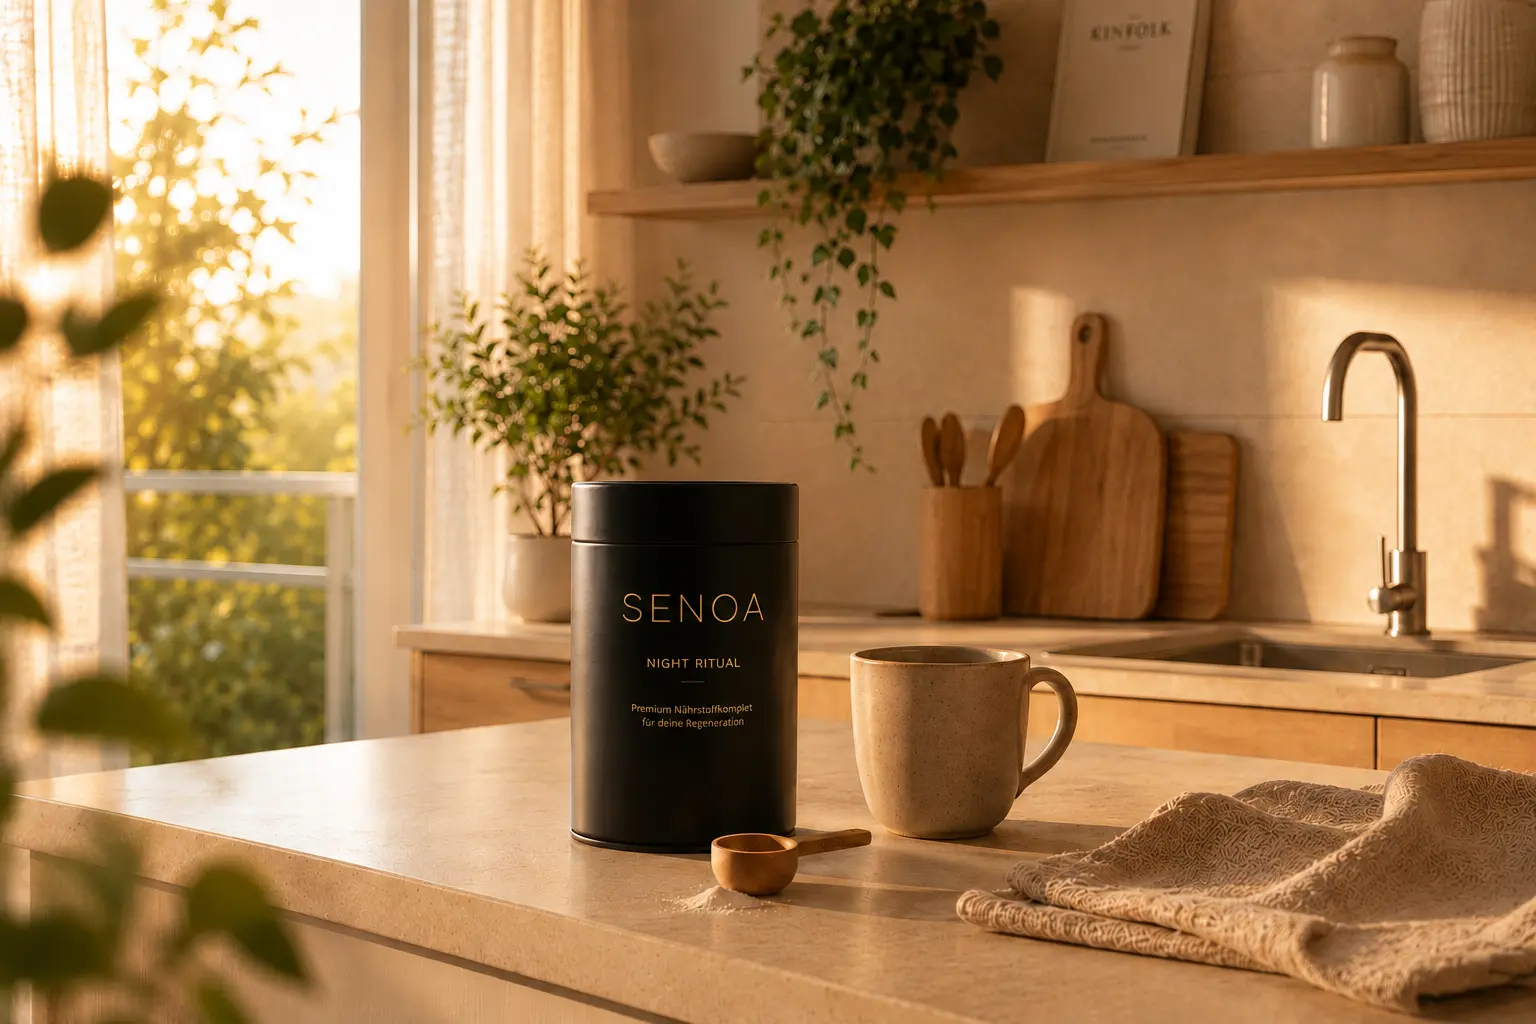
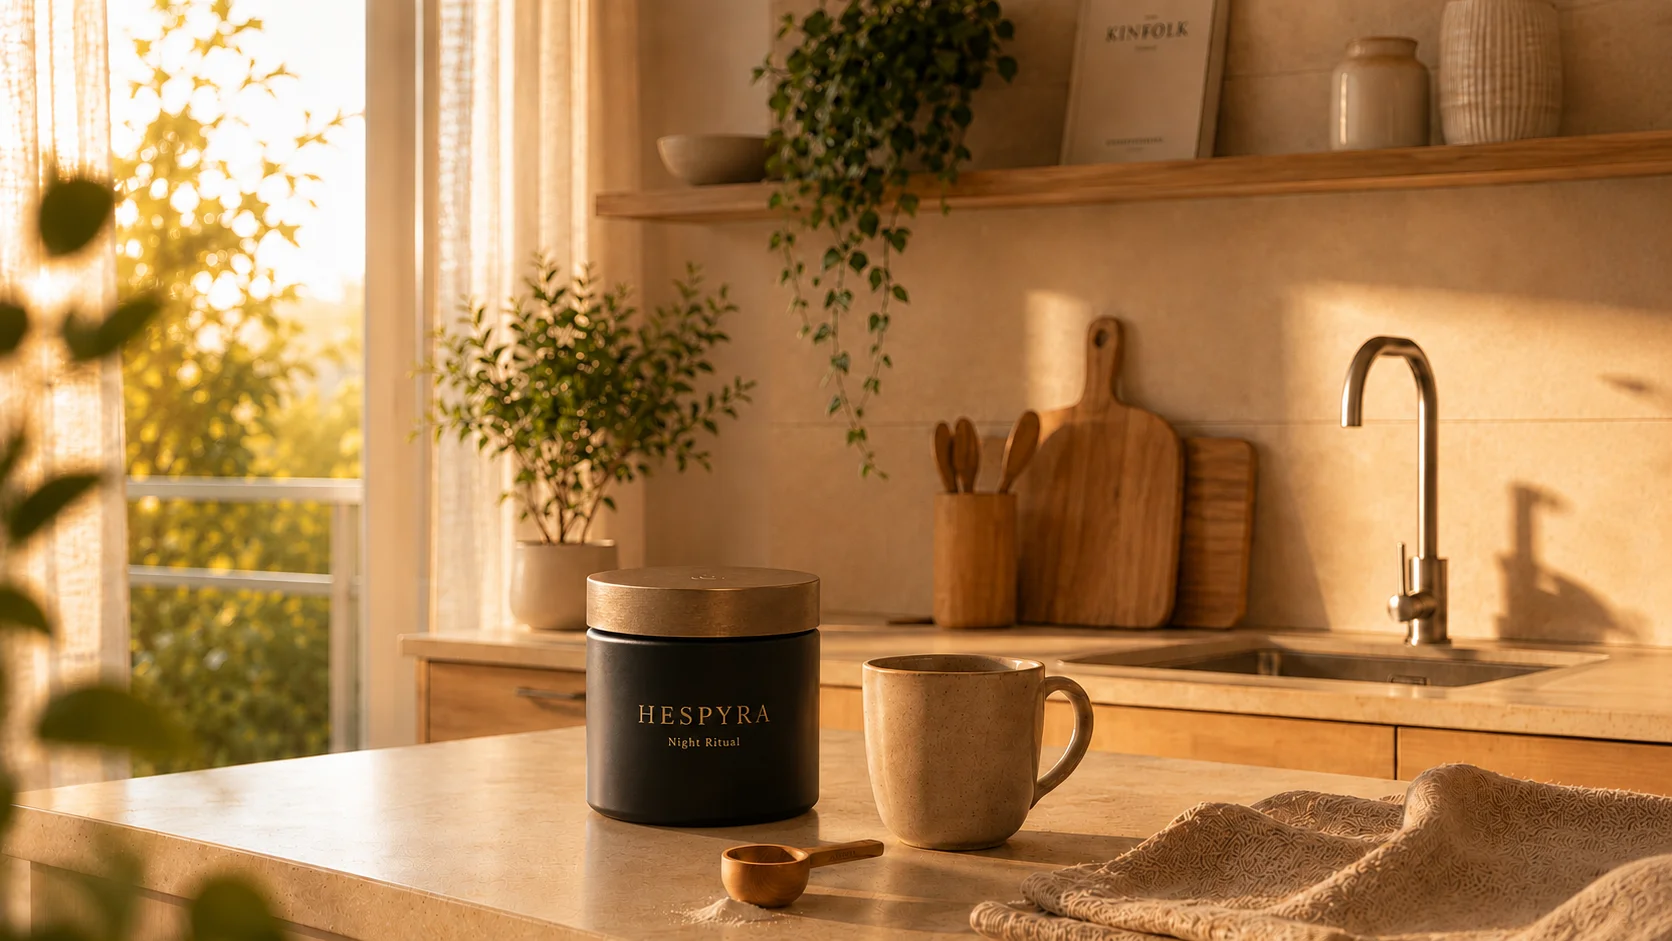
style: final responsive design alignments, waitlist & about copy, footer tooltips, and image updates

diff --git a/src/components/Footer.tsx b/src/components/Footer.tsx
@@ -1,3 +1,4 @@
+import { useState } from 'react';
 import { Camera, Link as LinkIcon } from 'lucide-react';
 import { useLanguage } from '../context/LanguageContext';
 
@@ -9,7 +10,16 @@ interface FooterProps {
 }
 
 const Footer = ({ onShowImprint, onShowContact, onShowAbout, onShowPrivacy }: FooterProps) => {
-  const { t } = useLanguage();
+  const { t, language } = useLanguage();
+  const [activeTooltip, setActiveTooltip] = useState<'instagram' | 'share' | null>(null);
+
+  const triggerTooltip = (type: 'instagram' | 'share') => {
+    setActiveTooltip(type);
+    const timer = setTimeout(() => {
+      setActiveTooltip(null);
+    }, 2000);
+    return () => clearTimeout(timer);
+  };
 
   return (
     <footer className="w-full bg-white border-t border-primary/10 py-8 lg:py-6 relative z-20">
@@ -68,22 +78,49 @@ const Footer = ({ onShowImprint, onShowContact, onShowAbout, onShowPrivacy }: Fo
             </button>
           </div>
 
-          {/* Right Column: Social / Share Icons */}
-          <div className="flex flex-row justify-center lg:justify-end items-center gap-6">
-            <a 
-              href="#" 
-              aria-label="Instagram"
-              className="text-primary/60 hover:text-primary transition-colors duration-200"
-            >
-              <Camera className="w-10 h-10" strokeWidth={1} />
-            </a>
-            <a 
-              href="#" 
-              aria-label="Share"
-              className="text-primary/60 hover:text-primary transition-colors duration-200"
-            >
-              <LinkIcon className="w-10 h-10" strokeWidth={1} />
-            </a>
+          {/* Right Column: Social / Share Icons with Interactive Tooltips */}
+          <div className="flex flex-row justify-center lg:justify-end items-center gap-6 relative">
+            
+            {/* Instagram Link Container */}
+            <div className="relative">
+              {activeTooltip === 'instagram' && (
+                <div className="absolute -top-12 left-1/2 transform -translate-x-1/2 bg-primary text-white text-[11px] font-sans tracking-wider py-1.5 px-3 rounded-sm whitespace-nowrap shadow-md animate-fade-in z-50">
+                  {language === 'de' ? 'Bald hier' : 'Coming soon'}
+                  <div className="absolute -bottom-1 left-1/2 transform -translate-x-1/2 w-2 h-2 bg-primary rotate-45"></div>
+                </div>
+              )}
+              <button 
+                onClick={(e) => {
+                  e.preventDefault();
+                  triggerTooltip('instagram');
+                }}
+                aria-label="Instagram"
+                className="text-primary/60 hover:text-primary transition-colors duration-200 focus:outline-none cursor-pointer flex items-center justify-center"
+              >
+                <Camera className="w-10 h-10" strokeWidth={1} />
+              </button>
+            </div>
+
+            {/* Share Link Container */}
+            <div className="relative">
+              {activeTooltip === 'share' && (
+                <div className="absolute -top-12 left-1/2 transform -translate-x-1/2 bg-primary text-white text-[11px] font-sans tracking-wider py-1.5 px-3 rounded-sm whitespace-nowrap shadow-md animate-fade-in z-50">
+                  {language === 'de' ? 'Bald hier' : 'Coming soon'}
+                  <div className="absolute -bottom-1 left-1/2 transform -translate-x-1/2 w-2 h-2 bg-primary rotate-45"></div>
+                </div>
+              )}
+              <button 
+                onClick={(e) => {
+                  e.preventDefault();
+                  triggerTooltip('share');
+                }}
+                aria-label="Share"
+                className="text-primary/60 hover:text-primary transition-colors duration-200 focus:outline-none cursor-pointer flex items-center justify-center"
+              >
+                <LinkIcon className="w-10 h-10" strokeWidth={1} />
+              </button>
+            </div>
+
           </div>
         </div>
       </div>

diff --git a/src/components/AboutModal.tsx b/src/components/AboutModal.tsx
@@ -49,40 +49,82 @@ const AboutModal = ({ isOpen, onClose }: AboutModalProps) => {
 
         {language === 'de' ? (
           /* German content */
-          <div className="space-y-8 text-[15px] text-primary/80 leading-relaxed font-light">
-            <p className="text-[17px] lg:text-[19px] text-primary/95 leading-relaxed font-normal">
-              HESPYRA entsteht aus einem einfachen Gedanken: Gute Produkte sollten nicht nur funktionieren — sie sollten einen echten Unterschied im Alltag machen.
+          <div className="space-y-6 text-[16px] lg:text-[17px] text-primary/80 leading-relaxed font-light">
+            <p>
+              HESPYRA entstand aus der Beobachtung, dass der Tag oft äußerlich endet, bevor er innerlich wirklich vorbei ist.
             </p>
 
             <p>
-              Wir sind ein kleines Team, das an Themen arbeiten möchte, die uns selbst bewegen: Ruhe, bewusste Routinen, hochwertige Produkte und die Frage, wie moderne Menschen nach einem vollen Tag wieder bei sich ankommen können.
+              Der letzte Termin ist vorüber. Der Laptop ist geschlossen. Die Wohnung wird stiller. Und doch läuft etwas weiter: Gedanken, Entscheidungen, Gespräche, ein Rest von Tempo.
             </p>
 
             <p>
-              Dabei geht es uns nicht darum, möglichst laut zu sein oder möglichst viel zu versprechen. Wir möchten Dinge entwickeln, die sich sinnvoll anfühlen. Mit Menschen, die wir mögen. Für Menschen, die sich nach mehr Ruhe, Klarheit und echten Momenten sehnen.
+              Wir wollten diesem Moment mehr Aufmerksamkeit schenken.
             </p>
 
-            <p className="pt-6 border-t border-primary/5 font-medium text-primary">
-              HESPYRA ist unser Anfang: ein Abendritual für den Übergang aus dem Leistungsmodus in echte Ruhe.
+            <p>
+              Nicht, weil der Abend optimiert werden muss.<br />
+              Sondern weil er einen bewussten Anfang verdient.
+            </p>
+
+            <p>
+              HESPYRA ist eine moderne Evening Ritual Brand aus Deutschland. Wir entwickeln Produkte für den Übergang vom Tag in echte Ruhe — ruhig, sinnlich und ohne laute Versprechen.
+            </p>
+
+            <p>
+              Unser erstes Ritual ist eine trinkbare Komposition für den Abend: ausgewählte Mineralien, Pflanzenextrakte und warme Geschmacksnoten, verbunden mit einer einfachen Handlung. Ein Scoop. Ein Glas. Ein Moment, in dem der Tag leiser werden darf.
+            </p>
+
+            <div className="pl-4 border-l border-primary/20 py-1 space-y-2">
+              <p>Wir glauben an Produkte, die nicht drängen.</p>
+              <p>An Rituale statt Routinen.</p>
+              <p>An Ruhe statt Optimierung.</p>
+              <p>An Qualität, die nicht laut werden muss.</p>
+            </div>
+
+            <p className="pt-6 border-t border-primary/10">
+              HESPYRA ist unser Anfang.<br />
+              Für den Moment, in dem der Abend wirklich beginnt.
             </p>
           </div>
         ) : (
           /* English content */
-          <div className="space-y-8 text-[15px] text-primary/80 leading-relaxed font-light">
-            <p className="text-[17px] lg:text-[19px] text-primary/95 leading-relaxed font-normal">
-              HESPYRA originates from a simple thought: Good products shouldn't just function — they should make a real difference in daily life.
+          <div className="space-y-6 text-[16px] lg:text-[17px] text-primary/80 leading-relaxed font-light">
+            <p>
+              HESPYRA was born from the observation that the day often ends outwardly before it is truly over inwardly.
             </p>
 
             <p>
-              We are a small team that wants to work on topics that move us personally: peace, conscious routines, premium products, and the question of how modern people can return to themselves after a full day.
+              The last appointment is done. The laptop is closed. The apartment grows quieter. And yet, something continues to run: thoughts, decisions, conversations, a residue of pace.
             </p>
 
             <p>
-              For us, it's not about being as loud as possible or promising the most. We want to develop things that feel meaningful. With people we like. For people who long for more peace, clarity, and genuine moments.
+              We wanted to give this moment more attention.
             </p>
 
-            <p className="pt-6 border-t border-primary/5 font-medium text-primary">
-              HESPYRA is our beginning: an evening ritual for the transition from performance mode into true stillness.
+            <p>
+              Not because the evening needs to be optimized.<br />
+              But because it deserves a conscious beginning.
+            </p>
+
+            <p>
+              HESPYRA is a modern evening ritual brand from Germany. We develop products for the transition from the day into true stillness — quiet, sensory, and without loud promises.
+            </p>
+
+            <p>
+              Our first ritual is a drinkable composition for the evening: selected minerals, plant extracts, and warm flavor notes, combined with a simple action. A scoop. A glass. A moment in which the day is allowed to grow quieter.
+            </p>
+
+            <div className="pl-4 border-l border-primary/20 py-1 space-y-2">
+              <p>We believe in products that do not rush.</p>
+              <p>In rituals instead of routines.</p>
+              <p>In stillness instead of optimization.</p>
+              <p>In quality that does not need to get loud.</p>
+            </div>
+
+            <p className="pt-6 border-t border-primary/10">
+              HESPYRA is our beginning.<br />
+              For the moment when the evening truly starts.
             </p>
           </div>
         )}

diff --git a/src/components/CustomerStory.tsx b/src/components/CustomerStory.tsx
@@ -27,24 +27,25 @@ const CustomerStory = () => {
               </div>
             </div>
             
-            {/* Elegant Grand Typographic Headline */}
-            <h2 className="text-4xl lg:text-[3.25rem] leading-[1.15] font-serif text-primary tracking-tight mb-6 lg:mb-8">
-              {t('philosophy.title').split('\n').map((line, i) => (
-                <span key={i}>
-                  {line}
-                  {i < t('philosophy.title').split('\n').length - 1 && <br />}
-                </span>
-              ))}
-            </h2>
-            
-            {/* Story Paragraphs beautifully coupled with Headline */}
-            <div className="space-y-6 text-base lg:text-[17px] text-primary/70 leading-relaxed font-light max-w-md">
-              <p>
-                {t('philosophy.text1')}
-              </p>
-              <p>
-                {t('philosophy.text2')}
-              </p>
+            {/* Elegant Grand Typographic Headline & Story Paragraphs aligned perfectly */}
+            <div className="w-full max-w-[320px] mx-auto lg:max-w-none lg:mx-0 flex flex-col items-start text-left">
+              <h2 className="text-4xl lg:text-[3.25rem] leading-[1.15] font-serif text-primary tracking-tight mb-6 lg:mb-8">
+                {t('philosophy.title').split('\n').map((line, i) => (
+                  <span key={i}>
+                    {line}
+                    {i < t('philosophy.title').split('\n').length - 1 && <br />}
+                  </span>
+                ))}
+              </h2>
+              
+              <div className="space-y-6 text-base lg:text-[17px] text-primary/70 leading-relaxed font-light">
+                <p>
+                  {t('philosophy.text1')}
+                </p>
+                <p>
+                  {t('philosophy.text2')}
+                </p>
+              </div>
             </div>
           </div>
 

diff --git a/src/components/Hero.tsx b/src/components/Hero.tsx
@@ -12,9 +12,9 @@ const Hero = ({ isCalm }: HeroProps) => {
       {/* Background Image */}
       <div className="absolute inset-0 z-0 overflow-hidden">
         <img 
-          src="images/hero.webp" 
+          src="images/HESPYRA_HERO.webp" 
           alt="HESPYRA Night Reset Background" 
-          className="w-full h-full object-cover object-[center_35%] opacity-85 saturate-[1.12] contrast-[1.04] brightness-[0.93] animate-ken-burns"
+          className="w-full h-full object-cover object-center opacity-85 saturate-[1.12] contrast-[1.04] brightness-[0.93] animate-ken-burns"
         />
         
         {/* --- Hero Gradient Overlays (Horizontal) --- */}
@@ -44,17 +44,17 @@ const Hero = ({ isCalm }: HeroProps) => {
       </div>
 
       {/* Content */}
-      <div className="relative z-10 w-full px-8 pt-32 lg:pt-24 pb-4">
+      <div className="relative z-10 w-full px-6 sm:px-8 pt-24 xs:pt-28 sm:pt-32 lg:pt-24 pb-4">
         <div className="max-w-[1600px] mx-auto">
           <div className="flex flex-col justify-center max-w-2xl">
             {/* Elegant Sub-headline/Slogan Tag */}
-            <span className="font-sans text-[12px] sm:text-[14px] tracking-[0.3em] font-semibold text-primary/60 uppercase mb-8 block whitespace-pre-line leading-relaxed">{t('hero.slogan')}</span>
+            <span className="font-sans text-[11px] sm:text-[14px] tracking-[0.25em] sm:tracking-[0.3em] font-semibold text-primary/60 uppercase mb-6 sm:mb-8 block whitespace-pre-line leading-relaxed">{t('hero.slogan')}</span>
 
             {/* 2. Headline H1 */}
-            <h1 className="text-5xl sm:text-6xl lg:text-[5.25rem] leading-[1.08] mb-16 font-serif text-primary">{t('hero.title').split('\n').map((line, i) => (<span key={i}>{line}{i < t('hero.title').split('\n').length - 1 && <br />}</span>))}</h1>
+            <h1 className="text-4xl sm:text-6xl lg:text-[5.25rem] leading-[1.12] sm:leading-[1.08] mb-10 sm:mb-16 font-serif text-primary">{t('hero.title').split('\n').map((line, i) => (<span key={i}>{line}{i < t('hero.title').split('\n').length - 1 && <br />}</span>))}</h1>
 
             {/* 4. Description */}
-            <p className="text-primary/80 text-lg lg:text-xl mb-24 max-w-lg leading-relaxed font-light whitespace-pre-line">{t('hero.desc')}</p>
+            <p className="text-primary/80 text-base sm:text-lg lg:text-xl mb-12 sm:mb-24 max-w-lg leading-relaxed font-light whitespace-pre-line">{t('hero.desc')}</p>
 
             {/* 6. CTA */}
             <div>

diff --git a/src/components/Navbar.tsx b/src/components/Navbar.tsx
@@ -9,19 +9,19 @@ const Navbar = ({ isCalm, onToggleCalm }: NavbarProps) => {
   const { language, setLanguage, t } = useLanguage();
 
   return (
-    <nav className="w-full bg-transparent flex items-start justify-between px-4 sm:px-8 py-4 sm:py-8 absolute top-0 left-0 z-50">
+    <nav className="w-full bg-transparent flex items-center justify-between px-4 sm:px-8 py-4 sm:py-8 absolute top-0 left-0 z-50">
       {/* Brand Logo & Celestial Hallmark */}
-      <div className={`flex items-center text-2xl sm:text-3xl tracking-[0.15em] font-sans leading-none select-none ${isCalm ? 'text-white' : 'text-primary'}`}>
+      <div className={`flex items-center text-lg xs:text-xl sm:text-3xl tracking-[0.15em] font-sans leading-none select-none ${isCalm ? 'text-white' : 'text-primary'}`}>
         <span>HESPYRA</span>
         <img 
           src="images/logo1.webp" 
           alt="HESPYRA Celestial Mark" 
-          className={`h-5 sm:h-6 w-auto ml-2.5 transition-all duration-[2.5s] ease-in-out hover:rotate-[360deg] cursor-pointer ${isCalm ? 'invert' : ''}`}
+          className={`h-4 sm:h-6 w-auto ml-1.5 sm:ml-2.5 transition-all duration-[2.5s] ease-in-out hover:rotate-[360deg] cursor-pointer ${isCalm ? 'invert' : ''}`}
         />
       </div>
       
       {/* Controls Container */}
-      <div className="flex items-center gap-3 sm:gap-6 lg:gap-8 font-sans text-[11px] sm:text-[13px] md:text-[14px] tracking-[0.12em] sm:tracking-[0.2em] font-semibold leading-none">
+      <div className="flex items-center gap-2 sm:gap-6 lg:gap-8 font-sans text-[10px] sm:text-[13px] md:text-[14px] tracking-[0.1em] sm:tracking-[0.2em] font-semibold leading-none">
         {/* Calm Mode Button */}
         <button 
           onClick={onToggleCalm}
@@ -36,7 +36,7 @@ const Navbar = ({ isCalm, onToggleCalm }: NavbarProps) => {
         <span className={isCalm ? 'text-white/20' : 'text-primary/20'}>|</span>
 
         {/* Language Switcher */}
-        <div className={`flex items-center gap-1.5 sm:gap-2 ${isCalm ? 'text-white/80' : 'text-primary/80'}`}>
+        <div className={`flex items-center gap-1 sm:gap-2 ${isCalm ? 'text-white/80' : 'text-primary/80'}`}>
           <button 
             onClick={() => setLanguage('de')} 
             className={`transition-colors duration-300 focus:outline-none cursor-pointer ${

diff --git a/src/components/Ritual.tsx b/src/components/Ritual.tsx
@@ -4,7 +4,7 @@ import { useLanguage } from '../context/LanguageContext';
 
 const stepImages = [
   "images/hespyra_ankunft.webp",
-  "images/hespyra_praesens.webp",
+  "images/HESPYRA_SCOOP.webp",
   "images/derAbend.webp"
 ];
 
@@ -37,7 +37,7 @@ const Ritual = () => {
             </div>
 
             {/* Middle block (vertically centered next to the image, grouped with description) */}
-            <div className="text-left py-6 lg:py-0 my-auto flex flex-col justify-center">
+            <div className="text-left py-6 lg:py-0 my-auto flex flex-col justify-center w-full max-w-[320px] mx-auto lg:max-w-none lg:mx-0">
               <h2 className="text-4xl lg:text-5xl leading-[1.15] font-serif text-primary tracking-tight">
                 {t('ritual.title').split('\n').map((line, i) => (
                   <span key={i}>
@@ -78,7 +78,7 @@ const Ritual = () => {
           </div>
 
           {/* Right Column - Typographic Steps with Left Icons spanning the full height of the middle image */}
-          <div className="lg:col-span-4 flex flex-col gap-10 lg:gap-0 lg:justify-between lg:h-full lg:pl-8 py-1">
+          <div className="lg:col-span-4 flex flex-col gap-10 lg:gap-0 lg:justify-between lg:h-full lg:pl-8 py-1 w-full max-w-[320px] mx-auto lg:max-w-none lg:mx-0">
             
             {/* Step I */}
             <div 

diff --git a/src/components/BenefitStrip.tsx b/src/components/BenefitStrip.tsx
@@ -30,7 +30,7 @@ const BenefitStrip = () => {
               className="px-6 md:px-12 lg:px-16 py-8 md:py-0"
             >
               {/* Centered content wrapper that is internally left-aligned */}
-              <div className="flex flex-col items-start text-left w-fit mx-auto">
+              <div className="flex flex-col items-start text-left w-full max-w-[320px] mx-auto">
                 {/* Number - Slightly darker (text-primary/60) and with more vertical distance (mb-10) */}
                 <span className="font-sans text-xs tracking-[0.2em] font-semibold text-primary/60 mb-10 block select-none">
                   {String(num).padStart(2, '0')}
@@ -45,7 +45,7 @@ const BenefitStrip = () => {
                 <div className="w-10 h-[1px] bg-primary/20 mb-6"></div>
                 
                 {/* Description sentence */}
-                <p className="font-sans text-base lg:text-[17px] leading-relaxed font-light text-primary/70 max-w-[260px]">
+                <p className="font-sans text-base lg:text-[17px] leading-relaxed font-light text-primary/70">
                   {t(`benefits.desc${num}`)}
                 </p>
               </div>

diff --git a/src/context/LanguageContext.tsx b/src/context/LanguageContext.tsx
@@ -109,7 +109,7 @@ const translations: Record<Language, Record<string, string>> = {
 
     // Waitlist
     'waitlist.title': 'Die erste Edition von HESPYRA.',
-    'waitlist.desc': 'Wir öffnen HESPYRA in kleinen Schritten.\nTrage dich ein, wenn du erfahren möchtest, wann das erste Ritual erhältlich ist.',
+    'waitlist.desc': 'Wir öffnen HESPYRA in kleinen Schritten.\nTrage dich ein, um zu erfahren, wann das erste Ritual erhältlich ist.',
     'waitlist.placeholder': 'E-Mail-Adresse',
     'waitlist.submit': 'Einladung erhalten',
     'waitlist.success': 'Danke. Wir melden uns leise.',
@@ -226,7 +226,7 @@ const translations: Record<Language, Record<string, string>> = {
 
     // Waitlist
     'waitlist.title': 'The first edition of HESPYRA.',
-    'waitlist.desc': 'We open HESPYRA in small steps.\nJoin if you would like to know when the first ritual is available.',
+    'waitlist.desc': 'We open HESPYRA in small steps.\nJoin to know when the first ritual is available.',
     'waitlist.placeholder': 'Email address',
     'waitlist.submit': 'Receive invitation',
     'waitlist.success': 'Thank you. We will reach out quietly.',

diff --git a/src/components/Ingredients.tsx b/src/components/Ingredients.tsx
@@ -65,7 +65,7 @@ const Ingredients = () => {
             return (
               <div 
                 key={`mobile-${group.key}`}
-                className="pt-12 first:pt-0 flex flex-col items-start text-left w-full max-w-[280px] mx-auto"
+                className="pt-12 first:pt-0 flex flex-col items-start text-left w-full max-w-[320px] mx-auto"
               >
                 {/* Number */}
                 <span className="font-sans text-xs tracking-[0.2em] font-semibold text-primary/60 mb-6 block select-none">

diff --git a/src/components/Waitlist.tsx b/src/components/Waitlist.tsx
@@ -79,7 +79,7 @@ const Waitlist = () => {
           
           {/* Column 2 - Middle: Description & Clean Form */}
           <div className="flex flex-col items-center justify-center text-center">
-            <p className="text-primary/70 text-sm md:text-base font-light leading-relaxed max-w-[280px] mx-auto mb-8">
+            <p className="text-primary/70 text-sm md:text-base font-light leading-relaxed max-w-[320px] mx-auto mb-8">
               {t('waitlist.desc').split('\n').map((line, i) => (
                 <span key={i}>
                   {line}